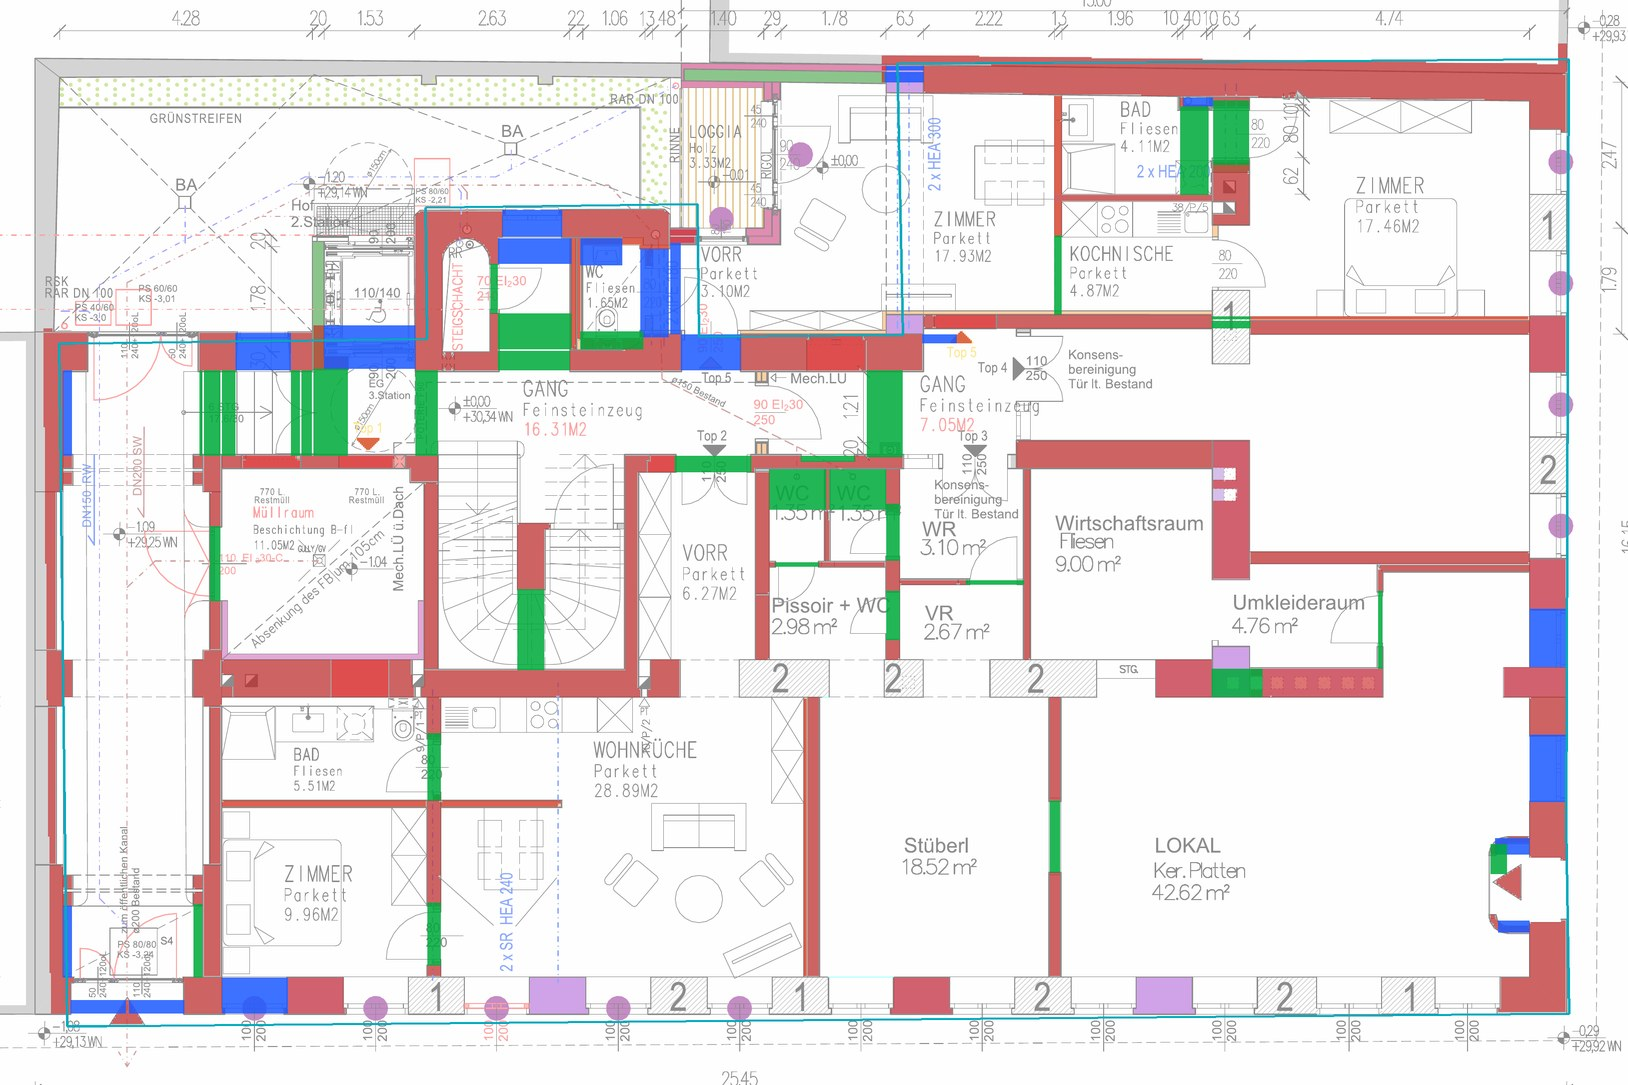
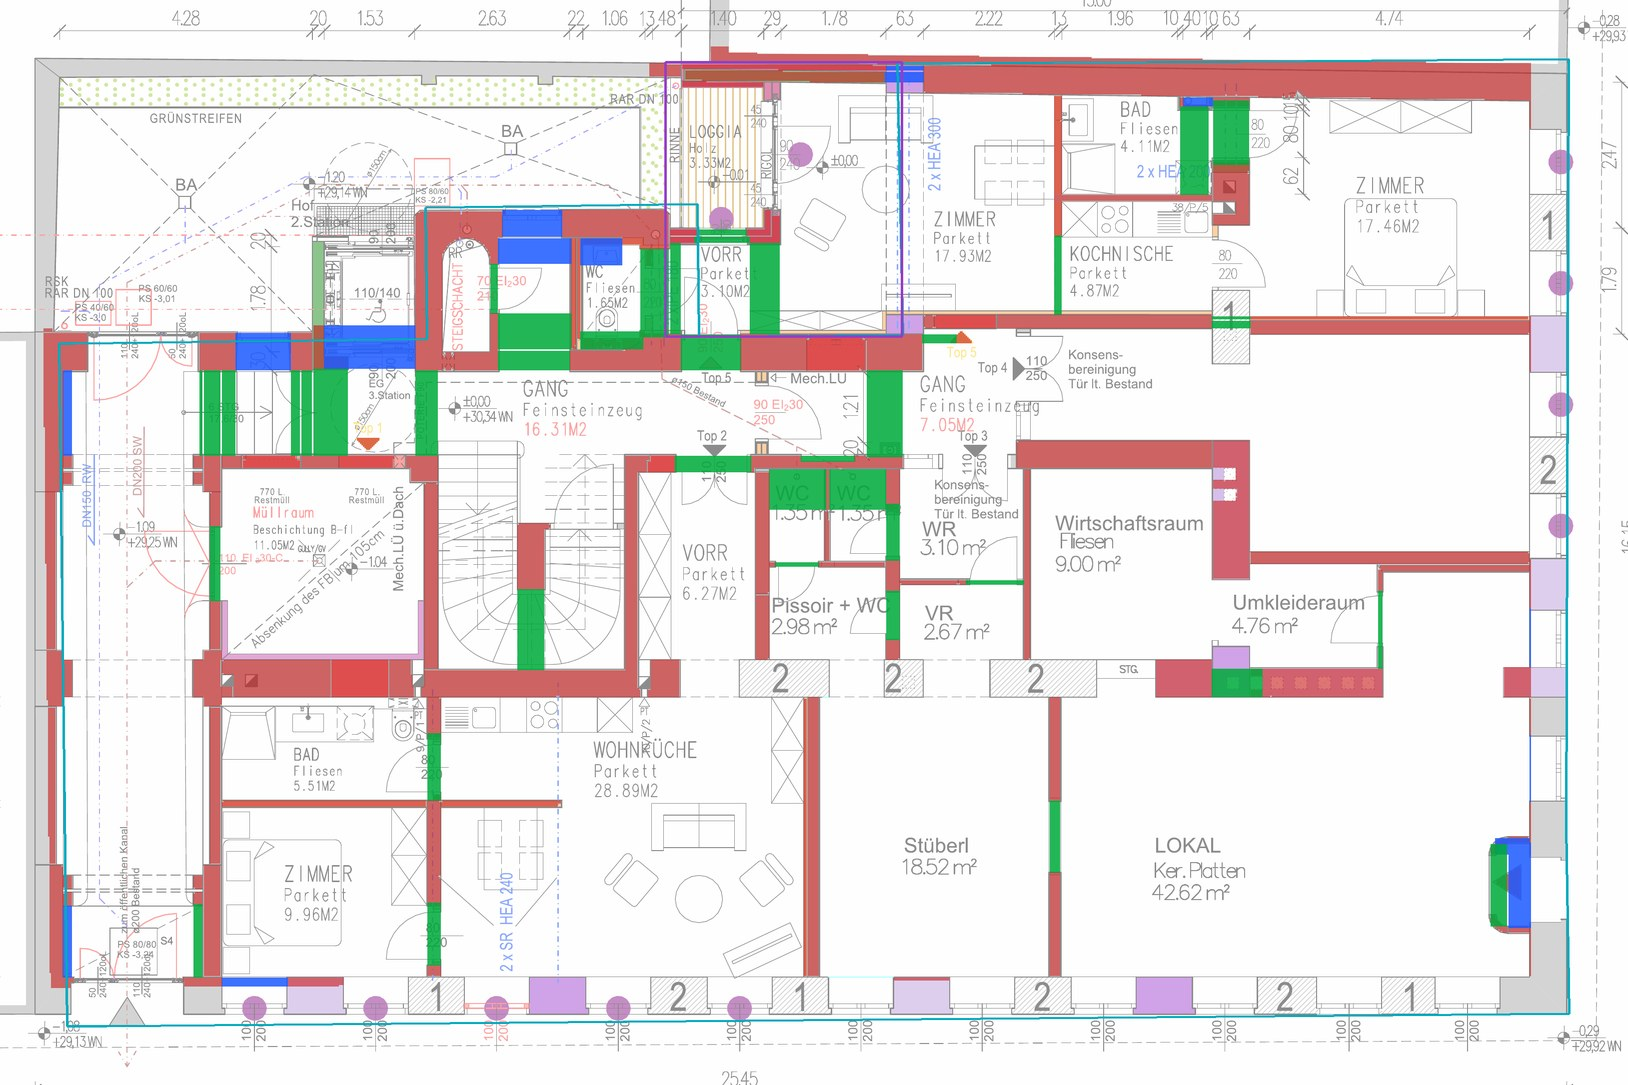
Studio: Kamera- und Licht-Editor, Upload im Intake, Kundenlinks mit Token, Walkthrough in der Galerie
Claude-Session: https://claude.ai/code/session_01V2wbbaudA21Xjw3UgK41zP

diff --git a/immoviz/studio/web/app.css b/immoviz/studio/web/app.css
@@ -266,7 +266,7 @@ input[type=range]{width:100%;accent-color:var(--signal)}
 .sw.hero{background:var(--signal)}
 .sw.bau{background:var(--plan-bau);box-shadow:inset 0 0 0 1px var(--plan-bau-line)}
 .sw.geh{background:var(--plan-geh)}
-.sw.cam{background:var(--text-strong);border-radius:50%}
+.sw.cam{background:var(--text-strong);border-radius:50%;box-shadow:0 0 0 2px var(--plan-bau)}
 
 /* Lageplan (SVG im lokalen System, Meter) */
 :root{--plan-geh:rgba(11,10,9,.09);--plan-bau:rgba(11,10,9,.15);--plan-bau-line:rgba(11,10,9,.3)}
@@ -283,14 +283,15 @@ input[type=range]{width:100%;accent-color:var(--signal)}
 .pl-ring{fill:none;stroke:var(--hairline-strong);stroke-dasharray:3 4}
 .cam .cone{fill:var(--text-strong);fill-opacity:.07;stroke:var(--text-strong);stroke-opacity:.35;stroke-width:.8}
 .cam .dot{fill:var(--text-strong);stroke:var(--surface);stroke-width:1.5}
-.cam[data-cam]{cursor:pointer}
-.cam[data-cam]:hover .cone{fill-opacity:.14}
+.cam .cone,.cam .aim,.cam .tgt,.cam text{pointer-events:none}
+.cam .dot[data-cam]{cursor:pointer}
+.cam:hover .cone{fill-opacity:.14}
 .cam.sel{pointer-events:none}
-.cam.sel .cone{fill:var(--signal);fill-opacity:.28;stroke:var(--signal-deep);stroke-opacity:1;stroke-width:1.4}
-.cam.sel .dot{fill:var(--signal-deep);stroke:var(--surface);stroke-width:2}
-.cam .aim{stroke:var(--signal-deep);stroke-width:1.2;stroke-dasharray:4 3}
-.cam .tgt circle{fill:none;stroke:var(--signal-deep);stroke-width:1.5}
-.cam .tgt line{stroke:var(--signal-deep);stroke-width:1.5}
+.cam.sel .cone{fill:var(--text-strong);fill-opacity:.2;stroke:var(--text-strong);stroke-opacity:1;stroke-width:1.6}
+.cam.sel .dot{fill:var(--signal);stroke:var(--text-strong);stroke-width:2}
+.cam .aim{stroke:var(--text-strong);stroke-width:1.2;stroke-dasharray:4 3}
+.cam .tgt circle{fill:var(--signal);stroke:var(--text-strong);stroke-width:1.5}
+.cam .tgt line{stroke:var(--text-strong);stroke-width:1.5}
 .sunray line{stroke:var(--signal-deep);stroke-width:2.5}
 .sunray polygon{fill:var(--signal-deep)}
 .sunray circle{fill:var(--signal);stroke:var(--signal-deep);stroke-width:1.5}

diff --git a/immoviz/studio/web/editor.js b/immoviz/studio/web/editor.js
@@ -100,11 +100,11 @@ async function viewKameras(slug) {
     const arc = [[px, py]];
     for (let i = 0; i <= 14; i++) { const a = a0 - half + 2 * half * i / 14; arc.push([px + L * Math.cos(a), py + L * Math.sin(a)]); }
     const lbl = c.key || c.name || "neu";
-    return `<g class="cam${sel ? " sel" : ""}" ${sel ? "" : `data-cam="${esc(c.key)}"`}><title>${esc(lbl)} · ${esc(c.lens)} mm</title>
+    return `<g class="cam${sel ? " sel" : ""}"><title>${esc(lbl)} · ${esc(c.lens)} mm</title>
       ${dist > 0.01 ? `<polygon class="cone" points="${svgPts(arc)}"/>` : ""}
       ${sel ? `<line class="aim" x1="${px}" y1="${-py}" x2="${tx}" y2="${-ty}"/>
         <g class="tgt"><circle cx="${tx}" cy="${-ty}" r="${1.4 * u}"/><line x1="${tx - 2.2 * u}" y1="${-ty}" x2="${tx + 2.2 * u}" y2="${-ty}"/><line x1="${tx}" y1="${-ty - 2.2 * u}" x2="${tx}" y2="${-ty + 2.2 * u}"/></g>` : ""}
-      <circle class="dot" cx="${px}" cy="${-py}" r="${(sel ? 1.5 : 1.05) * u}"/>
+      <circle class="dot" ${sel ? "" : `data-cam="${esc(c.key)}"`} cx="${px}" cy="${-py}" r="${(sel ? 1.5 : 1.05) * u}"/>
       ${sel ? `<text x="${px + 2.4 * u}" y="${-py + 2.4 * u}" font-size="${2.8 * u}">${esc(lbl)}</text>` : ""}</g>`;
   }
 

diff --git a/immoviz/studio/web/app.js b/immoviz/studio/web/app.js
@@ -21,6 +21,8 @@ function renderNav(slug, active) {
   pnav.innerHTML = TABS.map(([k, l], i) =>
     `<a href="#/p/${esc(slug)}${k ? "/" + k : ""}" ${k === active ? 'aria-current="page"' : ""}><span class="n">${pad(i + 1)}</span>${esc(l)}</a>`
   ).join("") + `<a href="/kunde?p=${encodeURIComponent(slug)}" target="_blank" rel="noopener"><span class="n">${pad(TABS.length + 1)}</span>Kundenansicht ↗</a>`;
+  const cur = pnav.querySelector('[aria-current="page"]');
+  if (cur) pnav.scrollLeft = Math.max(0, cur.offsetLeft - 16);
 }
 
 function sechead(num, label, title, text, act = "") {

diff --git a/immoviz/lib/section.py b/immoviz/lib/section.py
@@ -83,6 +83,64 @@ def _edge_wall(mb, a, b, t, z0, z1, side, top):
     _extrude(mb, [a, b, (b[0] + nx, b[1] + ny), (a[0] + nx, a[1] + ny)], z0, z1, side, top, bottom=False)
 
 
+def _fbox(mb, f, u0, u1, d0, d1, z0, z1, side, top):
+    """Quader in Fassadenkoordinaten (u entlang, d nach innen), Oberseite mit eigenem Material."""
+    if z1 - z0 < 1e-4 or u1 - u0 < 1e-4:
+        return
+    P = f.p
+    mb.poly([P(u0, d0, z1), P(u1, d0, z1), P(u1, d1, z1), P(u0, d1, z1)], None, top, (0, 0, 1))
+    al, out = f.along, f.out
+    for (ua, da), (ub, db), n in (((u0, d0), (u1, d0), out), ((u1, d1), (u0, d1), (-out[0], -out[1], 0)),
+                                  ((u0, d1), (u0, d0), (-al[0], -al[1], 0)), ((u1, d0), (u1, d1), al)):
+        L = math.hypot(ub - ua, db - da)
+        mb.poly([P(ua, da, z0), P(ub, db, z0), P(ub, db, z1), P(ua, da, z1)],
+                [(0, z0), (L, z0), (L, z1), (0, z1)], side, n)
+
+
+def facade_holes(cfg, fname):
+    """Öffnungen einer Straßenfassade wie in build.Hero.altbau: (ua, ub, za, zb)."""
+    A = cfg["altbau"]
+    fs = A["facades"][fname]
+    eg_map = {ax: g for g in fs.get("eg", []) for ax in g["axes"]}
+    holes = []
+    for rname, r in A["rows"].items():
+        for i, uc in enumerate(fs["axes"]):
+            w, za, zb = r["w"], r["z"], r["z"] + r["h"]
+            if rname == "eg" and i in eg_map:
+                g = eg_map[i]
+                if "z" in g:
+                    za, zb = g["z"]
+                if g["type"] == "haustor":
+                    holes.append((g["u"][0], g["u"][1], za, zb))
+                    continue
+                if g.get("keller"):
+                    holes.append((uc - 0.36, uc + 0.36, 0.80, 1.25))
+            holes.append((uc - w / 2, uc + w / 2, za, zb))
+    return holes
+
+
+def facade_wall(mb, f, holes, z_lo, z_hi, d0, d1, zc, M_):
+    """Massive Straßenwand mit den Fensteröffnungen der Ansicht, an zc gekappt."""
+    cuts = sorted({0.0, f.length} | {min(max(h[i], 0.0), f.length) for h in holes for i in (0, 1)})
+    for ua, ub in zip(cuts, cuts[1:]):
+        if ub - ua < 1e-4:
+            continue
+        um = (ua + ub) / 2
+        hz = sorted((h[2], h[3]) for h in holes if h[0] <= um <= h[1])
+        z = z_lo
+        solids = []
+        for a, b in hz:
+            if a > z:
+                solids.append((z, a))
+            z = max(z, b)
+        if z < z_hi:
+            solids.append((z, z_hi))
+        for a, b in solids:
+            c = _cut(a, b, zc)
+            if c:
+                _fbox(mb, f, ua, ub, d0, d1, c[0], c[1], M_["wand"], M_["schnitt"] if c[2] else M_["wand"])
+
+
 def _cut(z0, z1, zc):
     """Höhenbereich an der Schnitthöhe kappen: (z0, z1_neu, geschnitten) oder None."""
     if zc is None or z1 <= zc:
@@ -124,7 +182,7 @@ def clip_builder(mb: K.MeshBuilder, zc: float | None, name: str | None = None) -
 class PlanFloor:
     """Wände, Öffnungen und Gebäudemaske eines ganzen Geschosses aus der Vektor-Planseite."""
 
-    def __init__(self, key: str, g: dict, S: dict, footprint, facades: dict, cache: Path):
+    def __init__(self, key: str, g: dict, S: dict, footprint, facades: dict, cache: Path, extra=()):
         self.key, self.g = key, g
         self.s = S["m_per_px"]
         self.cell_px = S.get("cell_px", 3)
@@ -160,13 +218,15 @@ class PlanFloor:
         # Gebäudemaske aus dem Umriss, Rückseiten (Hof, Feuermauern) um rand_hof_m erweitert,
         # Straßenseiten hart an der Fassadenflucht (d >= 3 cm) begrenzt
         self.inside = self.poly_mask(footprint, (H, W))
+        for poly in extra:          # Ergänzung des OGD-Umrisses aus dem Plan (umriss_plus)
+            self.inside |= self.poly_mask(poly, (H, W))
         r = max(1, int(round(S.get("rand_hof_m", 0.25) / self.cell_m)))
         hull = ndimage.binary_dilation(self.inside, structure=np.ones((2 * r + 1, 2 * r + 1), bool))
         X, Y = self.cell_grid((H, W))
         for f in facades.values():
             d = -((X - f.a[0]) * f.n[0] + (Y - f.a[1]) * f.n[1])
             u = (X - f.a[0]) * f.t[0] + (Y - f.a[1]) * f.t[1]
-            hull &= ~((d < S.get("fassade_abstand_m", 0.03)) & (u > -1.0) & (u < f.length + 1.0))
+            hull &= ~((d < S.get("fassadenwand_m", 0.65)) & (u > -1.0) & (u < f.length + 1.0))
         self.hull = hull
         self.walls = cells & hull
         self.openings = find_openings(self.walls, self.cell_m)
@@ -232,7 +292,7 @@ class PlanFloor:
         return stats
 
     def floor_cells(self, poly, without=()):
-        m = self.poly_mask(poly, self.walls.shape) & ~self.walls & self.inside
+        m = self.poly_mask(poly, self.walls.shape) & ~self.walls & self.inside & self.hull
         for w in without:
             m &= ~self.poly_mask(w, self.walls.shape)
         return m
@@ -244,7 +304,7 @@ class PlanFloor:
             _box(mb, xa, xb, ya, yb, z0, z1, mat, mat)
 
     # Kontrollbild: Plan hell, Wände rot, Fenster blau, Türen grün, Umriss türkis, Wohnungen orange
-    def check_image(self, out: Path, footprint, highlights=()):
+    def check_image(self, out: Path, footprint, highlights=(), extra=()):
         base = (self.rgb.astype(np.float32) * 0.45 + 140).clip(0, 255).astype(np.uint8)
         img = Image.fromarray(base)
         H, W = self.walls.shape
@@ -265,11 +325,12 @@ class PlanFloor:
             ly = layer(om[k], col)
             img.paste(ly, (0, 0), ly)
         d = ImageDraw.Draw(img)
-        pts = []
-        for x, y in footprint:
-            c, r = self.local_to_cell(x, y)
-            pts.append((c * cp, r * cp))
-        d.line(pts + pts[:1], fill=(0, 170, 190), width=5)
+        for poly, col in [(footprint, (0, 170, 190))] + [(e, (150, 60, 200)) for e in extra]:
+            pts = []
+            for x, y in poly:
+                c, r = self.local_to_cell(x, y)
+                pts.append((c * cp, r * cp))
+            d.line(pts + pts[:1], fill=col, width=5)
         img = img.resize((img.width // 2, img.height // 2), Image.LANCZOS)
         out.parent.mkdir(parents=True, exist_ok=True)
         img.convert("RGB").save(out, quality=88)
@@ -317,6 +378,7 @@ def build_state(bpy, cfg, ctx, W, S, floors, mats, lib, coll, state):
     F = {k: K.Facade(k, tuple(v["a"]), tuple(v["b"])) for k, v in cfg["facades"].items()}
     footprint = max((b["poly"] for b in ctx["hero"]), key=lambda p: abs(K.polygon_area(p)))
     inner, _ = K.clip_polygon(footprint, [[k, "d", ">=", S.get("fassade_abstand_m", 0.03)] for k in F], F)
+    plates = [inner] + list(S.get("umriss_plus", []))
     M_ = {"wand": "modell_wand", "boden": "modell_boden", "schnitt": "modell_schnitt", "dach": "modell_dach",
           "wohnung": "modell_wohnung"}
     mb = K.MeshBuilder("schnitt_modell", list(M_.values()))
@@ -327,7 +389,12 @@ def build_state(bpy, cfg, ctx, W, S, floors, mats, lib, coll, state):
     eg = G[S["reihenfolge"][0]]
     c = _cut(S.get("sockel_unten", -0.5), eg["ffb"], zc)
     if c:
-        _extrude(mb, inner, c[0], c[1], M_["wand"], M_["schnitt"] if c[2] else M_["boden"])
+        for pl in plates:
+            _extrude(mb, pl, c[0], c[1], M_["wand"], M_["schnitt"] if c[2] else M_["boden"])
+    # massive Straßenwände mit den Öffnungen der Straßenansicht
+    for fname in cfg["altbau"]["facades"]:
+        facade_wall(mb, F[fname], facade_holes(cfg, fname), S.get("sockel_unten", -0.5), cfg["altbau"]["height"],
+                    0.01, S.get("fassadenwand_m", 0.65), zc, M_)
     # Regelgeschosse: Wände und Decke darüber
     for key in S["reihenfolge"]:
         g = G[key]
@@ -338,7 +405,8 @@ def build_state(bpy, cfg, ctx, W, S, floors, mats, lib, coll, state):
         stats[key] = fl.build(mb, g["ffb"], uk, zc, g.get("fenster", {}), M_)
         c = _cut(uk, ok, zc)
         if c:
-            _extrude(mb, inner, c[0], c[1], M_["wand"], M_["schnitt"] if c[2] else M_["boden"])
+            for pl in plates:
+                _extrude(mb, pl, c[0], c[1], M_["wand"], M_["schnitt"] if c[2] else M_["boden"])
         if key == geschoss:
             for wk in state.get("wohnungen", []):
                 h = S["wohnungen"][wk]
@@ -461,7 +529,7 @@ def load_floors(project_dir: Path, cfg, ctx, S):
     for key in S["reihenfolge"]:
         g = S["geschosse"][key]
         if g.get("typ") != "dach":
-            floors[key] = PlanFloor(key, g, S, footprint, F, cache)
+            floors[key] = PlanFloor(key, g, S, footprint, F, cache, S.get("umriss_plus", []))
     return floors, footprint
 
 
@@ -473,7 +541,7 @@ def write_checks(project_dir: Path, S, floors, footprint):
         for wk, h in S["wohnungen"].items():
             if h["geschoss"] == key:
                 hls.append(fl.floor_cells(h["polygon"], h.get("ohne", [])))
-        res[key] = fl.check_image(out_dir / f"check_{key}.jpg", footprint, hls)
+        res[key] = fl.check_image(out_dir / f"check_{key}.jpg", footprint, hls, S.get("umriss_plus", []))
     return res
 
 

diff --git a/immoviz/README.md b/immoviz/README.md
@@ -71,32 +71,51 @@ Ergebnisse liegen unter `renders/walkthrough/<top>/` (k = Blender, staging_k = e
 Lokale Web-Oberfläche über dem Prototyp (Phase B laut `KONZEPT.md`), im UNIO-Design, hell und dunkel, bis 400 px Breite.
 
 ```bash
-.venv-immoviz/bin/pip install fastapi uvicorn          # einmalig
+.venv-immoviz/bin/pip install fastapi uvicorn ruamel.yaml   # einmalig
 .venv-immoviz/bin/python immoviz/immoviz.py studio      # http://127.0.0.1:8765
 .venv-immoviz/bin/python immoviz/immoviz.py studio --dry-run   # Queue startet kein Blender (Test)
+# Tests auf einer Kopie: andere Projektwurzel (Standard immoviz/projects)
+.venv-immoviz/bin/python immoviz/immoviz.py studio --dry-run --projects /pfad/zur/kopie/projects
+IMMOVIZ_PROJECTS=/pfad/zur/kopie/projects .venv-immoviz/bin/python immoviz/immoviz.py studio   # gleichwertig
 ```
 
 | Bildschirm | Inhalt |
 |---|---|
 | Projekte | alle Ordner unter `projects/` mit `project.yaml`, Fortschritt der 10 Schritte, letzte Bilder |
 | Übersicht | Status je Schritt, abgeleitet aus den Dateien; von Hand überschreibbar |
-| Intake | Checkliste aus diesem README mit Ampel und Notiz, Dateien in `quellen/`, Anfrage-Text an den Bauträger |
+| Intake | Checkliste aus diesem README mit Ampel und Notiz, Upload per Drag and Drop nach `quellen/` mit Zuordnung zu einem Punkt, Anfrage-Text an den Bauträger |
 | Shotlist | Matrix Motiv x Licht aus `cameras` und `lights`, Thumbnails, Knopf „Vorschau rendern“ |
+| Kameras | Lageplan aus `data/context.json` (Objekt hervorgehoben, Gehsteige grau) mit allen Kameras und Blickkegel; Klick setzt Position, zweiter Klick das Ziel; anlegen, ändern, umbenennen, löschen |
+| Licht | Lichtstimmungen aus `lights` anlegen, ändern, löschen; Sonnenhöhe und Azimut live (`lib/sun.py`), Sonnenrichtung über dem Lageplan, Uhrzeit-Schieberegler |
 | Queue | ein Job gleichzeitig: `immoviz.py render <projekt> --cam <c> --light <l> --preview --no-blend`, Status und Log |
-| Galerie | alle Bilder und Videos unter `renders/`, Freigeben, Ablehnen, Kommentar |
-| Kundenansicht | `/kunde?p=<slug>`: nur freigegebene Bilder, Kunde kann Anmerkungen schreiben |
+| Galerie | alle Bilder und Videos unter `renders/`, Freigeben, Ablehnen, Kommentar; Videoplayer für `renders/video/` und `renders/walkthrough/<top>/`, Kamerapfade je Wohnung aus `wohnungen.yaml` (nur Anzeige); Kundenlinks erzeugen und widerrufen |
+| Kundenansicht | `/kunde?p=<slug>&t=<token>`: nur freigegebene Bilder und Videos, Kunde kann Anmerkungen schreiben. Ohne Token nur von localhost |
 
 Zuordnung in der Shotlist: Blender-Bilder nach `<slug>_<motiv>_<licht>_(vorschau|final)`, Higgsfield-Bilder in
 `renders/higgsfield/` zusätzlich über Motiv- und Lichtnamen im Dateinamen (z. B. `herbst_ecke_orbit`, `ecke_dunst_nbpro`).
 
-Datenhaltung je Projekt, `project.yaml` wird nur gelesen:
+Datenhaltung je Projekt:
 
+- `project.yaml`: Kamera- und Licht-Editor ändern nur den betroffenen Eintrag unter `cameras` bzw. `lights`
+  (zeilengenau, Kommentare, Ausrichtung und alle anderen Zeilen bleiben, `studio/yamledit.py` mit ruamel.yaml).
+  Vor dem Schreiben: Prüfung (Namen nur `[a-z0-9_]`, Zahlen in sinnvollen Grenzen, Pflichtfelder `pos`, `target`,
+  `lens` bzw. `date`, `time`, `tz`; `season` aus fruehling, sommer, spaetsommer, herbst, winter), Gegenprüfung des
+  Ergebnisses (alle anderen Abschnitte unverändert) und Sicherung nach `.history/project.<zeitstempel>.yaml`
+  (nicht eingecheckt). Lichter, die `wohnungen.yaml` verwendet, lassen sich nicht löschen oder umbenennen.
+  Neue Kameras und Lichter erscheinen sofort in Shotlist und Queue.
 - `status.json`: von Hand gesetzter Schrittstatus (alternativ optionales Feld `status: {4: annahme}` in `project.yaml`)
-- `intake.json`: Stand der Intake-Checkliste
+- `intake.json`: Stand der Intake-Checkliste, unter `dateien` die Zuordnung hochgeladener Dateien zu Punkten
+- `quellen/`: Upload PDF, DWG, JPG, PNG, XLSX, DOCX bis 100 MB; Dateiname wird gesäubert (Umlaute, Sonderzeichen,
+  keine Pfade), bei gleichem Namen `_2`, `_3`; Inhalt muss zur Endung passen. `quellen/*.pdf` bleibt gitignored.
 - `freigabe.json`: Freigabe, Ablehnung und Kommentare je Bild (Kundenkommentare mit `quelle: kunde`)
+- `kundenlinks.json`: je Link nur SHA-256 des Tokens, Ablaufdatum, Notiz, Widerruf, letzter Zugriff. Das Token
+  steht nur einmal in der Oberfläche (Galerie, Abschnitt Kundenlinks).
 
-Thumbnails und Job-Logs liegen in `immoviz/studio/.cache/` (nicht eingecheckt). Die Oberfläche hat noch keine
-Anmeldung: nur lokal oder im Büronetz betreiben, Kundenlink nicht öffentlich teilen.
+Zugriff: Anfragen von localhost dürfen alles. Alle anderen Anfragen (auch über einen Proxy mit `X-Forwarded-For`)
+bekommen nur die Kundenansicht mit gültigem Token und die freigegebenen Dateien dieses Projekts, sonst 403.
+Für Kunden außerhalb also das Studio hinter einem HTTPS-Proxy betreiben und im Kundenlink den Rechnernamen
+durch die öffentliche Adresse ersetzen. Das Team arbeitet lokal (oder per SSH-Tunnel); eine Team-Anmeldung
+gibt es noch nicht. Thumbnails und Job-Logs liegen in `immoviz/studio/.cache/` (nicht eingecheckt).
 
 ## Neues Objekt anlegen
 

diff --git a/immoviz/KONZEPT.md b/immoviz/KONZEPT.md
@@ -67,7 +67,7 @@ Blender- oder Programmierkenntnisse.
 | Phase | Inhalt | Ergebnis |
 |---|---|---|
 | A (jetzt) | Kommandozeile, Claude als Operator, Objekt Wimmergasse | erstes Bildpaket, Prozess gelernt |
-| B (Kern steht, 14.11.2026) | Web-Oberfläche Kern: Projekte, Intake, Shotlist, Render-Queue, Galerie, Freigabe | Team kann ohne Code arbeiten |
+| B (Kern plus Editoren, 14.11.2026) | Web-Oberfläche: Projekte, Intake mit Upload, Shotlist, Kamera- und Licht-Editor, Render-Queue, Galerie, Freigabe mit Kundenlink | Team kann ohne Code arbeiten |
 | C | Fassaden- und Dach-Editor mit Planüberlagerung, KI-Vorschlag aus Vektor-PDF | neues Objekt in einem Tag aufgenommen |
 | D | Innenräume: Grundriss zu Raum, Staging, BAB-Materialien, Ausblick aus dem Fenster | Wohnungsbilder |
 | E | Kamerafahrten, interaktive 360-Ansichten, Einbindung in Projekt-Websites | Bewegtbild und Web |
@@ -76,8 +76,14 @@ Blender- oder Programmierkenntnisse.
 HTML/CSS/JS im UNIO-Design, kein Build-Schritt, Code in `studio/`). Fertig: Projekte, Übersicht mit 10 Schritten
 (abgeleitet, von Hand überschreibbar), Intake-Checkliste, Shotlist-Matrix mit Thumbnails, Render-Queue (ein Job
 gleichzeitig, Vorschau ohne .blend), Galerie mit Freigabe und Kommentar, Kundenansicht mit nur freigegebenen Bildern.
-Offen für B: Anmeldung und geteilter Kundenlink, Upload im Intake, Higgsfield-Aufträge und Kosten in der Queue,
-Final-Rendering aus der Oberfläche, Export. Next.js laut Abschnitt 4 erst, wenn die Oberfläche öffentlich erreichbar wird.
+Zweite Ausbaustufe B (14.11.2026): Kamera-Editor mit Lageplan aus context.json (Klick setzt Position und Ziel,
+Blickkegel aus der Brennweite), Licht-Editor mit live berechnetem Sonnenstand, beide schreiben zeilengenau in
+project.yaml (Kommentare bleiben, Prüfung, Sicherung in .history). Upload im Intake mit Zuordnung zu Punkten.
+Kundenlink mit Token (nur Hash gespeichert, Ablauf, Widerruf); ohne Token nur noch localhost, von außen nur
+Kundenansicht und freigegebene Dateien. Galerie mit Videoplayer und Kamerapfaden der Walkthroughs.
+Offen für B: Team-Anmeldung (bis dahin nur lokal), Higgsfield-Aufträge und Kosten in der Queue,
+Final-Rendering aus der Oberfläche, Export, Bearbeiten der Walkthrough-Pfade. Next.js laut Abschnitt 4 erst,
+wenn die Oberfläche öffentlich erreichbar wird.
 
 ## 6. Bildpaket je Objekt (Standard)
 
